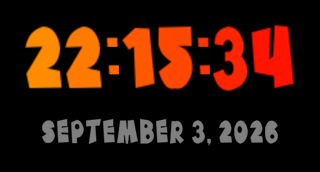
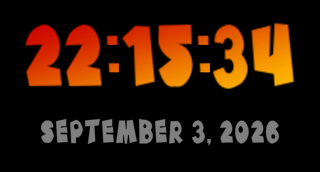
Add 75-degree smooth glow wave across time block with dark red to yellowish-orange palette

Changed region(s): [[0.0625, 0.1163, 0.9375, 0.5523], [0.125, 0.6977, 0.5938, 0.843], [0.6875, 0.6977, 0.875, 0.843]]

diff --git a/src/ui.c b/src/ui.c
@@ -8,6 +8,7 @@
 #include <stddef.h>
 #include <stdint.h>
 #include "app_font_data.h"
+#include "effects.h"
 #include "esp_log.h"
 #include "st7789.h"
 
@@ -35,40 +36,7 @@ void ui_toggle_rotation(void) {
     ui_set_rotation(1 - s_rotation);
 }
 
-/**
- * @brief Render a single time digit/colon character using alpha-blending onto black.
- *
- * @param x Top-left X coordinate.
- * @param y Top-left Y coordinate.
- * @param c Character to render.
- * @param r_fg Foreground red channel (0..255).
- * @param g_fg Foreground green channel (0..255).
- * @param b_fg Foreground blue channel (0..255).
- */
-static void draw_time_char(int x, int y, char c, uint8_t r_fg, uint8_t g_fg, uint8_t b_fg) {
-    const glyph_desc_t *g = get_time_glyph(c);
-    if (!g) return;
 
-    for (int row = 0; row < g->height; row++) {
-        int py = y + row;
-        if (py < 0 || py >= LCD_HEIGHT) continue;
-        const uint8_t *src_line = &g->bitmap[row * g->width];
-        for (int col = 0; col < g->width; col++) {
-            int px = x + col;
-            if (px < 0 || px >= LCD_WIDTH) continue;
-            uint8_t a = src_line[col];
-            if (a == 0) continue;
-            if (a >= 250) {
-                fb_draw_pixel(px, py, color565(r_fg, g_fg, b_fg));
-            } else {
-                uint8_t r = (uint8_t)(((uint16_t)r_fg * a) >> 8);
-                uint8_t g_val = (uint8_t)(((uint16_t)g_fg * a) >> 8);
-                uint8_t b = (uint8_t)(((uint16_t)b_fg * a) >> 8);
-                fb_draw_pixel(px, py, color565(r, g_val, b));
-            }
-        }
-    }
-}
 
 /**
  * @brief Calculate total horizontal pixel width of a time string.
@@ -89,6 +57,52 @@ static int get_time_width(const char *str, int spacing) {
     }
     if (count > 1) w += (count - 1) * spacing;
     return w;
+}
+
+/**
+ * @brief Render a single time character with 75-degree angled rainbow glow.
+ *
+ * @param x Top-left X coordinate.
+ * @param y Top-left Y coordinate.
+ * @param c Character to render.
+ * @param phase_offset Spatial phase offset for 75-degree wave.
+ */
+static void draw_time_char_angled(int x, int y, char c, int phase_offset) {
+    const glyph_desc_t *g = get_time_glyph(c);
+    if (!g) return;
+
+    for (int row = 0; row < g->height; row++) {
+        int py = y + row;
+        if (py < 0 || py >= LCD_HEIGHT) continue;
+        int row_base = py * 247; // 256 * sin(75°) ≈ 247
+        const uint8_t *src_line = &g->bitmap[row * g->width];
+
+        for (int col = 0; col < g->width; col++) {
+            int px = x + col;
+            if (px < 0 || px >= LCD_WIDTH) continue;
+            uint8_t a = src_line[col];
+            if (a == 0) continue;
+
+            // Smooth 75-degree wave projection across the complete time block:
+            // 256 * cos(75°) ≈ 66, 256 * sin(75°) ≈ 247
+            // Scale factor 210/256 creates a gentle, wide wavelength across the entire block
+            int proj = (px * 66 + row_base) >> 8;
+            int u = ((proj * 210) >> 8) - phase_offset;
+            uint8_t idx = (uint8_t)(u & 0xFF);
+
+            uint8_t pr, pg, pb;
+            effects_get_palette_color(idx, &pr, &pg, &pb);
+
+            if (a >= 250) {
+                fb_draw_pixel(px, py, color565(pr, pg, pb));
+            } else {
+                uint8_t r = (uint8_t)(((uint16_t)pr * a) >> 8);
+                uint8_t g_val = (uint8_t)(((uint16_t)pg * a) >> 8);
+                uint8_t b = (uint8_t)(((uint16_t)pb * a) >> 8);
+                fb_draw_pixel(px, py, color565(r, g_val, b));
+            }
+        }
+    }
 }
 
 /**
@@ -176,24 +190,22 @@ static void draw_date_string(int x, int y, const char *str, uint8_t r, uint8_t g
     }
 }
 
-void ui_render_scene(const char *time_str,
-                     const uint8_t time_r[8],
-                     const uint8_t time_g[8],
-                     const uint8_t time_b[8],
-                     const char *date_str) {
+void ui_render_scene(const char *time_str, float phase, const char *date_str) {
     // 1. Pure black background
     fb_clear(0x0000);
 
-    // 2. Render Top Row (Time: "HH:MM:SS")
+    // 2. Render Top Row (Time: "HH:MM:SS") with 75-degree glowing wave
     const int time_spacing = 3;
     const int total_time_w = get_time_width(time_str, time_spacing);
     const int time_x0 = (LCD_WIDTH - total_time_w) / 2; // Centered
     const int time_y = 22;                             // Top margin: 22 px (Y: 22..90)
 
+    int phase_offset = (int)(phase * (256.0f / 6.2831853f));
+
     int cur_x = time_x0;
     for (int i = 0; i < 8 && time_str[i] != '\0'; i++) {
         char c = time_str[i];
-        draw_time_char(cur_x, time_y, c, time_r[i], time_g[i], time_b[i]);
+        draw_time_char_angled(cur_x, time_y, c, phase_offset);
         const glyph_desc_t *g = get_time_glyph(c);
         if (g) {
             cur_x += g->width + time_spacing;

diff --git a/src/effects.c b/src/effects.c
@@ -37,51 +37,63 @@ void effects_hsv_to_rgb(int h, int s, int v, uint8_t *r_out, uint8_t *g_out, uin
     *b_out = (uint8_t)b;
 }
 
-void effects_update(float *phase,
-                    uint8_t time_r[8], uint8_t time_g[8], uint8_t time_b[8],
-                    uint8_t *led_r, uint8_t *led_g, uint8_t *led_b) {
-    if (!phase) return;
+static rgb_color_t s_palette[256];
+static bool s_palette_init = false;
 
-    // Advance glow animation phase slowly (~6.3-second full cycle)
-    *phase += 0.035f;
+void effects_init(void) {
+    if (s_palette_init) return;
+    for (int i = 0; i < 256; i++) {
+        float theta = (float)i * (float)TWO_PI / 256.0f;
+        // Continuous, perfectly smooth cosine rainbow from Dark Red -> Orange -> Yellowish Orange -> Orange -> Dark Red:
+        // Dark Red is (204, 0, 0) (red with 20% black / 80% red)
+        // Yellowish Orange peak is (255, 185, 0)
+        // R smoothly transitions from 204 (Dark Red) to 255 (Yellowish Orange) and back
+        // G smoothly transitions from 0 (Dark Red) to 185 (Yellowish Orange) and back
+        // B is always 0
+        float blend = 0.5f * (1.0f - cosf(theta)); // 0.0 at Dark Red, 1.0 at Yellowish Orange
+        float r_f = 204.0f + 51.0f * blend + 0.5f;
+        int r = (int)r_f;
+        if (r < 204) r = 204;
+        if (r > 255) r = 255;
+
+        float g_f = 185.0f * blend + 0.5f;
+        int g = (int)g_f;
+        if (g < 0) g = 0;
+        if (g > 185) g = 185;
+
+        s_palette[i].r = (uint8_t)r;
+        s_palette[i].g = (uint8_t)g;
+        s_palette[i].b = 0;
+    }
+    s_palette_init = true;
+}
+
+void effects_get_palette_color(uint8_t index, uint8_t *r, uint8_t *g, uint8_t *b) {
+    if (!s_palette_init) {
+        effects_init();
+    }
+    if (r) *r = s_palette[index].r;
+    if (g) *g = s_palette[index].g;
+    if (b) *b = s_palette[index].b;
+}
+
+void effects_update(float *phase, uint8_t *led_r, uint8_t *led_g, uint8_t *led_b) {
+    if (!phase) return;
+    if (!s_palette_init) {
+        effects_init();
+    }
+
+    // Smooth and slow animation phase (~18-second full sweep cycle at ~28 FPS)
+    *phase += 0.012f;
     if (*phase > TWO_PI) {
         *phase -= TWO_PI;
     }
 
     float p = *phase;
 
-    // Compute warm rainbow glow across the 8 characters of "HH:MM:SS" from Orange to Red
-    if (time_r && time_g && time_b) {
-        for (int i = 0; i < 8; i++) {
-            float h_f = 17.5f + 17.0f * sinf(p + (float)i * 0.44f);
-            int h = (int)h_f;
-            if (h < 0) h = 0;
-            if (h > 40) h = 40;
-
-            int v = 225 + (int)(30.0f * sinf(p * 1.5f + (float)i * 0.25f));
-            if (v > 255) v = 255;
-            if (v < 180) v = 180;
-
-            int s = 245 + (int)(10.0f * cosf(p + (float)i * 0.2f));
-            if (s > 255) s = 255;
-            if (s < 220) s = 220;
-
-            effects_hsv_to_rgb(h, s, v, &time_r[i], &time_g[i], &time_b[i]);
-        }
-    }
-
-    // Compute synchronized orange-to-red glow for the WS2812 back glow light
+    // Compute synchronized underglow light
     if (led_r && led_g && led_b) {
-        float center_h = 17.5f + 17.0f * sinf(p);
-        int led_h = (int)center_h;
-        if (led_h < 0) led_h = 0;
-        if (led_h > 40) led_h = 40;
-
-        int led_v = 220 + (int)(35.0f * sinf(p * 1.5f));
-        if (led_v > 255) led_v = 255;
-        if (led_v < 140) led_v = 140;
-
-        int led_s = 250;
-        effects_hsv_to_rgb(led_h, led_s, led_v, led_r, led_g, led_b);
+        uint8_t idx = (uint8_t)((int)(p * (256.0f / (float)TWO_PI)) & 0xFF);
+        effects_get_palette_color(idx, led_r, led_g, led_b);
     }
 }

diff --git a/src/effects.h b/src/effects.h
@@ -15,6 +15,30 @@ extern "C" {
 #endif
 
 /**
+ * @brief RGB color struct (8-bit per channel).
+ */
+typedef struct {
+    uint8_t r;
+    uint8_t g;
+    uint8_t b;
+} rgb_color_t;
+
+/**
+ * @brief Initialize the 256-color warm rainbow glow palette (orange to red).
+ */
+void effects_init(void);
+
+/**
+ * @brief Get precomputed RGB color from the glow palette by 8-bit index.
+ *
+ * @param index 8-bit cyclical index (0..255).
+ * @param r Output red channel.
+ * @param g Output green channel.
+ * @param b Output blue channel.
+ */
+void effects_get_palette_color(uint8_t index, uint8_t *r, uint8_t *g, uint8_t *b);
+
+/**
  * @brief Convert HSV color coordinates to 24-bit standard RGB.
  *
  * @param[in]  h Hue angle in degrees (0..360, automatically wrapped).
@@ -27,22 +51,14 @@ extern "C" {
 void effects_hsv_to_rgb(int h, int s, int v, uint8_t *r_out, uint8_t *g_out, uint8_t *b_out);
 
 /**
- * @brief Update glowing color animation cycle for clock characters and WS2812 LED.
- *
- * Advances animation phase and calculates the 8-character warm gradient
- * across "HH:MM:SS" alongside the underglow LED.
+ * @brief Update glowing color animation cycle for WS2812 underglow LED and global phase.
  *
  * @param[in,out] phase Pointer to animation phase angle in radians (updated on each call).
- * @param[out]    time_r Output red channel array for 8 time characters.
- * @param[out]    time_g Output green channel array for 8 time characters.
- * @param[out]    time_b Output blue channel array for 8 time characters.
  * @param[out]    led_r Output red value for onboard WS2812 RGB LED.
  * @param[out]    led_g Output green value for onboard WS2812 RGB LED.
  * @param[out]    led_b Output blue value for onboard WS2812 RGB LED.
  */
-void effects_update(float *phase,
-                    uint8_t time_r[8], uint8_t time_g[8], uint8_t time_b[8],
-                    uint8_t *led_r, uint8_t *led_g, uint8_t *led_b);
+void effects_update(float *phase, uint8_t *led_r, uint8_t *led_g, uint8_t *led_b);
 
 #ifdef __cplusplus
 }

diff --git a/src/main.c b/src/main.c
@@ -57,7 +57,6 @@ void app_main(void) {
 
     int64_t last_log_time = esp_timer_get_time();
     float phase = 0.0f;
-    uint8_t time_r[8], time_g[8], time_b[8];
     uint8_t led_r, led_g, led_b;
     char time_str[16];
 
@@ -74,15 +73,15 @@ void app_main(void) {
             ESP_LOGI(TAG, "Tick: %s | Date: %s", time_str, clock_get_date_str());
         }
 
-        // Update glow animation phase, digit colors, and LED underglow color
-        effects_update(&phase, time_r, time_g, time_b, &led_r, &led_g, &led_b);
+        // Update glow animation phase and LED underglow color
+        effects_update(&phase, &led_r, &led_g, &led_b);
 
         // Update the onboard WS2812 underglow RGB LED
         ws2812_set_rgb(led_r, led_g, led_b);
 
-        // Render current scene and transfer to display over SPI
+        // Render current scene with 75-degree angled glow wave
         clock_get_time_str(time_str, sizeof(time_str));
-        ui_render_scene(time_str, time_r, time_g, time_b, clock_get_date_str());
+        ui_render_scene(time_str, phase, clock_get_date_str());
 
         // 35ms frame delay (~28 FPS)
         vTaskDelay(pdMS_TO_TICKS(35));

diff --git a/src/ui.h b/src/ui.h
@@ -41,19 +41,13 @@ uint8_t ui_get_rotation(void);
 void ui_toggle_rotation(void);
 
 /**
- * @brief Render the complete scene (time digits, separator accent, date string) and flush to display.
+ * @brief Render the complete scene (time digits with 75-degree glowing wave, date string) and flush to display.
  *
  * @param time_str Null-terminated string formatted as "HH:MM:SS" (8 characters).
- * @param time_r Array of 8 red channel color values for each digit/colon character.
- * @param time_g Array of 8 green channel color values for each digit/colon character.
- * @param time_b Array of 8 blue channel color values for each digit/colon character.
+ * @param phase Current glowing wave animation phase in radians.
  * @param date_str Null-terminated date string to display in the bottom row.
  */
-void ui_render_scene(const char *time_str,
-                     const uint8_t time_r[8],
-                     const uint8_t time_g[8],
-                     const uint8_t time_b[8],
-                     const char *date_str);
+void ui_render_scene(const char *time_str, float phase, const char *date_str);
 
 #ifdef __cplusplus
 }

diff --git a/README.md b/README.md
@@ -15,7 +15,7 @@ A real-time digital clock and ambient lighting display designed for the **Wavesh
 - **Internet Time Synchronization (SNTP & Wi-Fi 6)**: Connects to your local Wi-Fi network and synchronizes atomic clock time using SNTP (`pool.ntp.org` / Google NTP). Automatically applies local timezones and Daylight Saving Time (DST).
 - **Private Credentials via `.env`**: Wi-Fi SSID, password, and timezone are stored in a local, git-ignored `.env` file and processed automatically at build time. No credentials are ever committed to git.
 - **Anti-Aliased Typography**: Large, smooth 68 px time digits and 28 px date glyphs rendered with per-pixel alpha blending against pure pitch black (`#000000`).
-- **Dynamic Warm Glow**: Real-time sinusoidal phase calculation creating a shifting orange-to-red thermal gradient across the clock digits.
+- **75° Angled Rainbow Glow Wave**: Continuous, ultra-smooth red-to-yellowish-orange thermal gradient traveling across the complete time block at an exact 75-degree angle (calculated via optimized 2D integer projection and precomputed cosine palette, eliminating sharp banding).
 - **Synchronized WS2812 Underglow**: The onboard addressable RGB LED (`GPIO 8`) pulses with the display's thermal color palette through the acrylic casing.
 - **180° Display Flip**: Toggle orientation on the fly by pressing the tactile **BOOT** button (`GPIO 9`).
 - **USB Serial Synchronization**: Fallback instant time/date sync at 115200 baud over `/dev/ttyACM0`.
